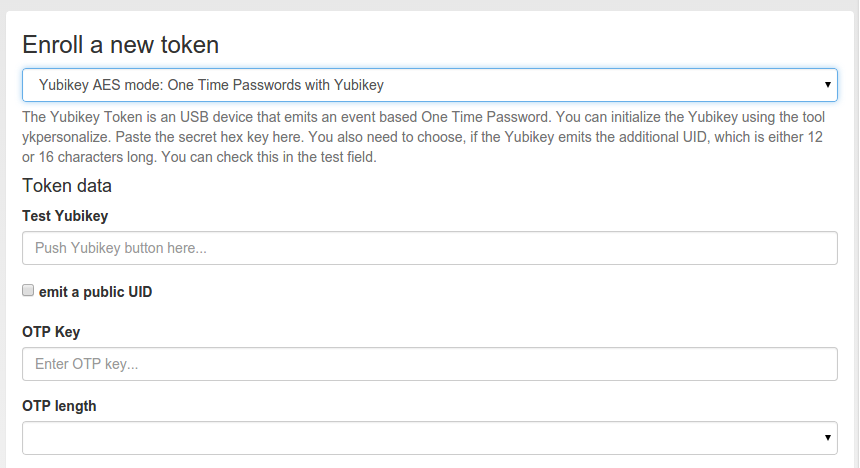
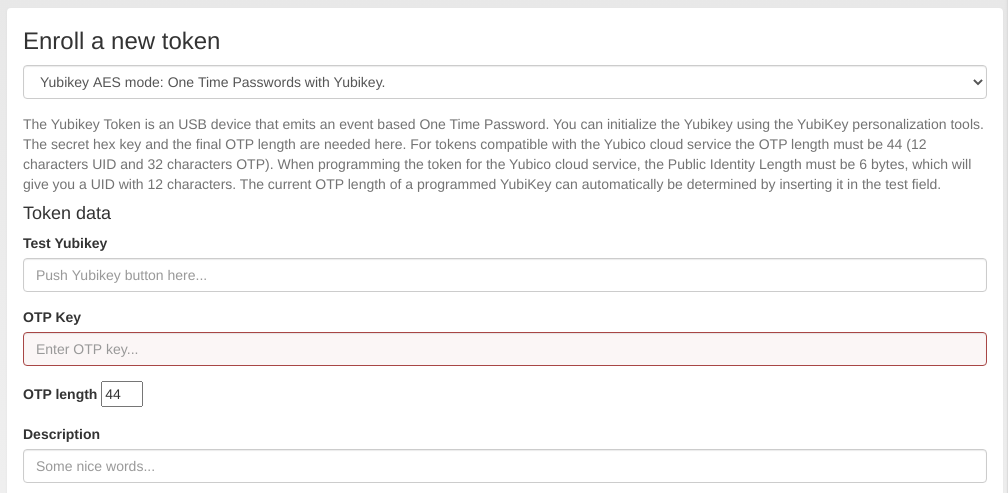
Fix remarks from review
basically rewriting the yubikey AES enrollment:
- The length of the UID can be determined by the complete length of the OTP
  so we skip detecting it (it will be added to the token-info the first
  time the token is used)
- Update documentation in UI and docs
- Update enrollment picture
- Fix overwriting `otplen` when switching between e.g. `HOTP` and `Yubikey
  AES` during enrollment.

Changed region(s): [[0.0, 0.0, 1.0, 1.0], [0.0, 0.5983, 0.9674, 0.9872]]

diff --git a/privacyidea/static/components/token/views/token.enroll.yubikey.html b/privacyidea/static/components/token/views/token.enroll.yubikey.html
@@ -1,12 +1,16 @@
 <p class="help-block" translate>
     The Yubikey Token is an USB device that emits an event based One Time
-    Password. You can initialize the Yubikey using the tool ykpersonalize.
-    Paste the secret hex key here.
-    For tokens compatible with the Yubico cloud service check "emit a public ID".
-    When programming the token the prefix must be 6 bytes, which will give
-    you a UID with 12 characters.
-    You also need to choose, if the Yubikey emits the additional UID, which
-    is either 12 or 16 characters long. You can check this in the test field.
+    Password. You can initialize the Yubikey using the YubiKey personalization
+    tools.
+
+    The secret hex key and the final OTP length are needed here.
+    For tokens compatible with the Yubico cloud service the OTP length must be
+    44 (12 characters UID and 32 characters OTP).
+    When programming the token for the Yubico cloud service, the Public Identity
+    Length must be 6 bytes, which will give you a UID with 12 characters.
+
+    The current OTP length of a programmed YubiKey can automatically be
+    determined by inserting it in the test field.
 </p>
 
 <h4 translate>Token data</h4>
@@ -14,27 +18,12 @@
 <div class="form-group">
     <label for="yubikeyTest" translate>Test Yubikey</label>
     <input type="text"
+           id="yubikeyTest"
            autofocus
            class="form-control"
            placeholder="{{ 'Push Yubikey button here...'|translate }}"
            ng-model="tempData.yubikeyTest" name="yubikeyTest"
            ng-change="yubikeyGetLen()">
-</div>
-
-<div class="form-group">
-    <input type="checkbox" ng-model="tempData.yubikeyUid"
-           name="yubikeyUID" id="yubikeyUID">
-    <label for="yubikeyUID" translate>emit a public UID</label>
-
-    <div ng-show="tempData.yubikeyUid">
-    <label for="yubikeyUidLen" translate>Length of UID</label>
-    <select id="yubikeyUidLen"
-            ng-model="tempData.yubikeyUidLen"
-            name="yubikeyUidLen"
-            ng-options="val for val in ykuidlen">
-        <option value="">-- please choose --</option>
-    </select>
-        </div>
 </div>
 
 <div class="form-group">
@@ -50,10 +39,9 @@
 </div>
 <div class="form-group">
     <label for="otplen" translate>OTP length</label>
-    <select class="form-control"
-            id="otplen"
-            ng-model="form.otplen"
-            ng-options="val for val in ykotplen">
-        <option value="" selected>-- please choose --</option>
-    </select>
+    <input type="number"
+           id="otplen"
+           max="99" min="32"
+           ng-model="form.otplen"
+           required />
 </div>

diff --git a/privacyidea/static/components/token/controllers/tokenControllers.js b/privacyidea/static/components/token/controllers/tokenControllers.js
@@ -200,8 +200,6 @@ myApp.controller("tokenEnrollController", ["$scope", "TokenFactory", "$timeout",
     $scope.questions = [];
     $scope.num_questions = 5;
     $scope.fileVersionSuffix = versioningSuffixProvider.$get();
-    $scope.ykuidlen = [12, 16];
-    $scope.ykotplen = [32, 44, 48];
     // These are values that are also sent to the backend!
     $scope.form = {
         timeStep: 30,
@@ -296,9 +294,17 @@ myApp.controller("tokenEnrollController", ["$scope", "TokenFactory", "$timeout",
             $scope.form.genkey = true;
         }
         if ($scope.form.type === "yubikey") {
-            delete $scope.form.otplen;
+            // save the original otp length
+            $scope.old_otplen = $scope.form.otplen;
+            // set the default otp length for yubikeys in AES mode to 44
+            // (12 characters (6 bytes) UID and 32 characters (16 bytes) OTP)
+            $scope.form.otplen = 44;
         } else {
-            $scope.form.otplen = 6;
+            // restore old otp length if available
+            if (typeof $scope.old_otplen != "undefined") {
+                $scope.form.otplen = $scope.old_otplen;
+                delete $scope.old_otplen;
+            }
         }
 
         $scope.preset_indexedsecret();
@@ -531,18 +537,8 @@ myApp.controller("tokenEnrollController", ["$scope", "TokenFactory", "$timeout",
 
     $scope.yubikeyGetLen = function () {
         let yktestdatalen = $scope.tempData.yubikeyTest.trim().length;
-        if ($scope.ykotplen.includes(yktestdatalen)) {
+        if (yktestdatalen >= 32) {
             $scope.form.otplen = yktestdatalen;
-            let yktestuidlen = yktestdatalen - 32;
-            if ($scope.ykuidlen.includes(yktestuidlen)) {
-                $scope.tempData.yubikeyUid = true;
-                $scope.tempData.yubikeyUidLen = yktestuidlen;
-            } else {
-                delete $scope.tempData.yubikeyUidLen;
-            }
-        } else {
-            delete $scope.form.otplen;
-            delete $scope.tempData.yubikeyUidLen;
         }
     };
 

diff --git a/privacyidea/static/css/content.css b/privacyidea/static/css/content.css
@@ -83,3 +83,8 @@ input[type="checkbox"] {
     display: table;
     margin: auto;
 }
+
+/* for YubiKey otplen input */
+input[type=number]#otplen {
+    width: 3em;
+}

diff --git a/doc/tokens/tokentypes/yubikey.rst b/doc/tokens/tokentypes/yubikey.rst
@@ -39,8 +39,8 @@ Using the yubikey personalization GUI
 ~~~~~~~~~~~~~~~~~~~~~~~~~~~~~~~~~~~~~
 
 Third and last you can use the privacyIDEA Web UI to enroll a
-Yubikey AES mode token, if you have
-initialized the yubikey with the external *ykpersonalize* tool.
+Yubikey AES mode token, if you have initialized the yubikey with an external
+YubiKey personalization tool [#ykpers]_.
 
 .. figure:: images/yk-personalization-gui.png
    :width: 500
@@ -49,16 +49,24 @@ initialized the yubikey with the external *ykpersonalize* tool.
 
 When using the yubikey personalization GUI you need to copy the value of
 "Secret Key (16 bytes Hex)". This is the secret OTP key, which you need to
-copy and paste in the field "OTP Key" in the privacyIDEA Web UI.
+copy and paste in the field *OTP Key* in the privacyIDEA Web UI.
 
 .. figure:: images/enroll_yubikey.png
    :width: 500
 
    *Enroll a Yubikey AES mode token*
 
-In the field "Test Yubikey" push the Yubikey button. This will grab the
-yubikey's public identifier and also determine the length of the *otp value*.
-The field *OTP value* is automatically filled.
+In the field "Test Yubikey" push the Yubikey button. This will determine the
+length of the *otp value* and the field *OTP length* is automatically filled.
+
+.. note::
+    The length of the unique passcode for each OTP is 32 characters at the end
+    of the OTP value. The remaining characters at the beginning of the OTP value
+    form the Public ID of the device. They remain constant for each
+    OTP [#ykotp]_.
+
+    privacyIDEA takes care of separating these parts but it needs to know the
+    complete length of the OTP value to work correctly.
 
 Redirect api url to privacyideas /ttype/yubikey
 ...............................................
@@ -76,3 +84,7 @@ lines in /etc/apache2/site-enabled/privacyidea.conf:
 If you use nginx there is a similar line provided as a comment
 to the nginx configuration as well.
 
+.. rubric:: Footnotes
+
+.. [#ykpers] https://www.yubico.com/products/services-software/download/yubikey-personalization-tools/
+.. [#ykotp] https://developers.yubico.com/OTP/OTPs_Explained.html
